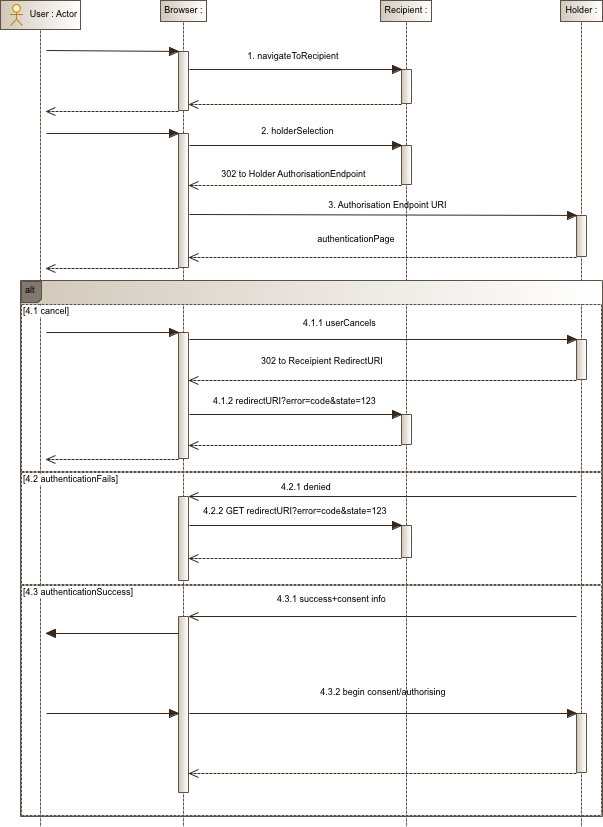
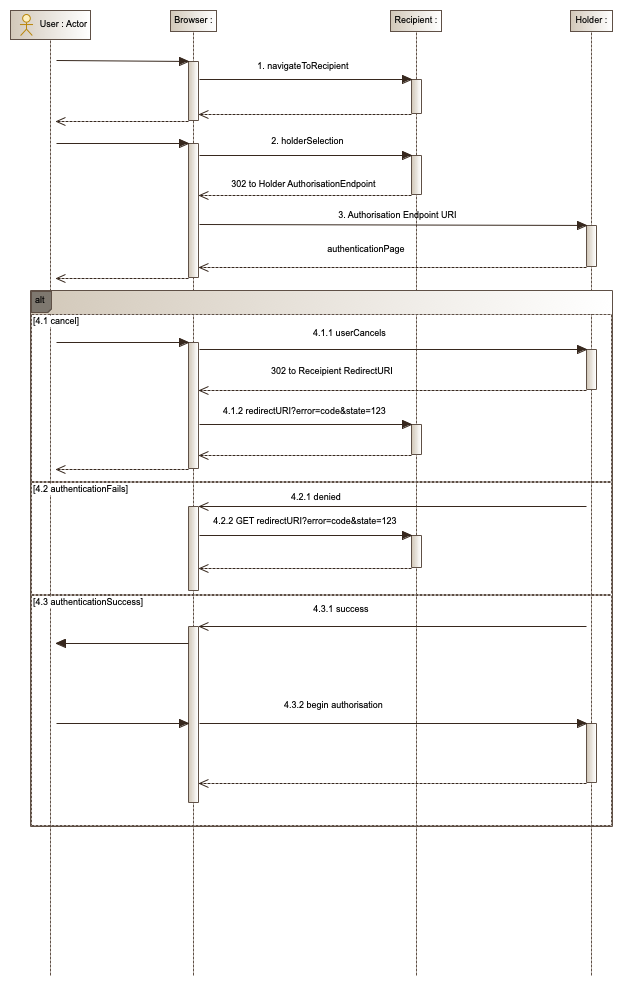
Changing consent to authorisation in sequence diagrams and descriptions.

Changed region(s): [[0.0, 0.0, 1.0, 0.9976], [0.8955, 0.0, 1.0, 0.0605]]

diff --git a/docs/index.html b/docs/index.html
@@ -210,7 +210,7 @@
       </span>
     </a>
     <div class="toc-wrapper">
-      <img src="images/logo.png" class="logo" alt="Logo" />
+      <img src="images/logoSanta.png" class="logo" alt="Logosanta" />
         <div class="lang-selector">
               <a href="#" data-language-name="http">http</a>
         </div>
@@ -1650,11 +1650,12 @@ How querying, communication, and revocation of consent will be supported technic
 <h3 id='part-b-data-holder-authentication'>Part B - Data Holder Authentication</h3>
 <p><img src="images/redirPartB.png" alt="Part B" /></p>
 <h4 id='steps-2'>Steps</h4>
-<p>Part <strong>B</strong> illustrates the different authentication methods a Data Holder may present to the end-user.  It is important from a usability perspective that the Data Holder authentication choices presented to the end-user are consistent with those currently utilised by the end-user when accessing their existing Data Holder online accounts.<br>
-The following options may be used:</p>
+<p>Part <strong>B</strong> illustrates the different authentication methods a Data Holder may present to the end-user.  It is important from a usability perspective that the Data Holder authentication choices presented to the end-user are consistent with those currently utilised by the end-user when accessing their existing Data Holder online accounts.  </p>
+
+<p>The following options may be used:</p>
 
 <ol>
-<li>All Credentials/Factors are captured through the Browser.  On success, the consent process begins (Part <strong>C</strong>) .</li>
+<li>All Credentials/Factors are captured through the Browser.  On success, the authorisation process begins (Part <strong>C</strong>) .</li>
 <li>Two Factor Authentication (2FA)
 
 <ol>
@@ -1664,18 +1665,18 @@ The following options may be used:</p>
 <li><em>One</em> of the following may occur:
 
 <ol>
-<li>The end-user directly enters the code (or scans a QR Code) into the browser and submits the request.  On success, the consent process begins (Part <strong>C</strong>).</li>
-<li>The end-user does not enter the code into the browser.  The end-user acknowledges the authentication through the device and a secure message is sent from the device to the Data Holder via a backchannel. On receipt of the message, the Data Holder&#39;s website redirects the end-user&#39;s browser to the consent page (Part <strong>C</strong>).</li>
+<li>The end-user directly enters the code (or scans a QR Code) into the browser and submits the request.  On success, the authorisation process begins (Part <strong>C</strong>).</li>
+<li>The end-user does not enter the code into the browser.  The end-user acknowledges the authentication through the device and a secure message is sent from the device to the Data Holder via a backchannel. On receipt of the message, the Data Holder&#39;s website redirects the end-user&#39;s browser to the authorisation page (Part <strong>C</strong>).</li>
 </ol></li>
 </ol></li>
 </ol>
-<h3 id='part-c-post-consent-data-recipient-to-data-holder'>Part C - Post Consent Data Recipient to Data Holder</h3>
+<h3 id='part-c-post-authorisation-data-recipient-to-data-holder'>Part C - Post Authorisation Data Recipient to Data Holder</h3>
 <p><img src="images/redirPartC.png" alt="Part C" /></p>
 <h4 id='steps-3'>Steps</h4>
 <p>This process continues from Part <strong>B</strong> after a successful authentication.</p>
 
 <ol>
-<li>The end-user provides consent authorising the presented scopes and/or data claims.</li>
+<li>The end-user authorises the transaction.</li>
 <li><em>One</em> of the following may occur:
 
 <ol>

diff --git a/slate/source/index.html.md b/slate/source/index.html.md
@@ -983,23 +983,24 @@ A Data Holder Token Endpoint MUST:
 ![Part B](/images/redirPartB.png)
 #### Steps
 Part **B** illustrates the different authentication methods a Data Holder may present to the end-user.  It is important from a usability perspective that the Data Holder authentication choices presented to the end-user are consistent with those currently utilised by the end-user when accessing their existing Data Holder online accounts.  
+
 The following options may be used:
 
-1. All Credentials/Factors are captured through the Browser.  On success, the consent process begins (Part **C**) .
+1. All Credentials/Factors are captured through the Browser.  On success, the authorisation process begins (Part **C**) .
 2. Two Factor Authentication (2FA)
     1. A userId and optionally a password are entered to the browser and submitted by the end-user.
     2. A code or notification is sent to a end-user's pre-registered mobile/device application (detached authentication device).  This step is optional as an end-user's device application may generate codes in isolation, as is the case for Time-based One-Time Password (TOTP).
     3.  The end-user views the code or event on their detached authentication device.
     4. *One* of the following may occur:
-        1. The end-user directly enters the code (or scans a QR Code) into the browser and submits the request.  On success, the consent process begins (Part **C**).
-        2. The end-user does not enter the code into the browser.  The end-user acknowledges the authentication through the device and a secure message is sent from the device to the Data Holder via a backchannel. On receipt of the message, the Data Holder's website redirects the end-user's browser to the consent page (Part **C**).
+        1. The end-user directly enters the code (or scans a QR Code) into the browser and submits the request.  On success, the authorisation process begins (Part **C**).
+        2. The end-user does not enter the code into the browser.  The end-user acknowledges the authentication through the device and a secure message is sent from the device to the Data Holder via a backchannel. On receipt of the message, the Data Holder's website redirects the end-user's browser to the authorisation page (Part **C**).
 
-### Part C - Post Consent Data Recipient to Data Holder
+### Part C - Post Authorisation Data Recipient to Data Holder
 ![Part C](/images/redirPartC.png)
 #### Steps
 This process continues from Part **B** after a successful authentication.
 
-1. The end-user provides consent authorising the presented scopes and/or data claims.
+1. The end-user authorises the transaction.
 2. *One* of the following may occur:
   1. The Data Holder creates a new pairwise identifier for the end-user and Data Recipient combination.  This is the first time the end-user has authenticated to the Data Holder in the context of a request from this Data Recipient.
   2. This is a reauthentication.  The end-user has previously authenticated to the Data Holder in the context of an authentication request from this Data Recipient.  The existing pairwise identifier for the end-user and Data Recipient is allocated to the authorisation.
